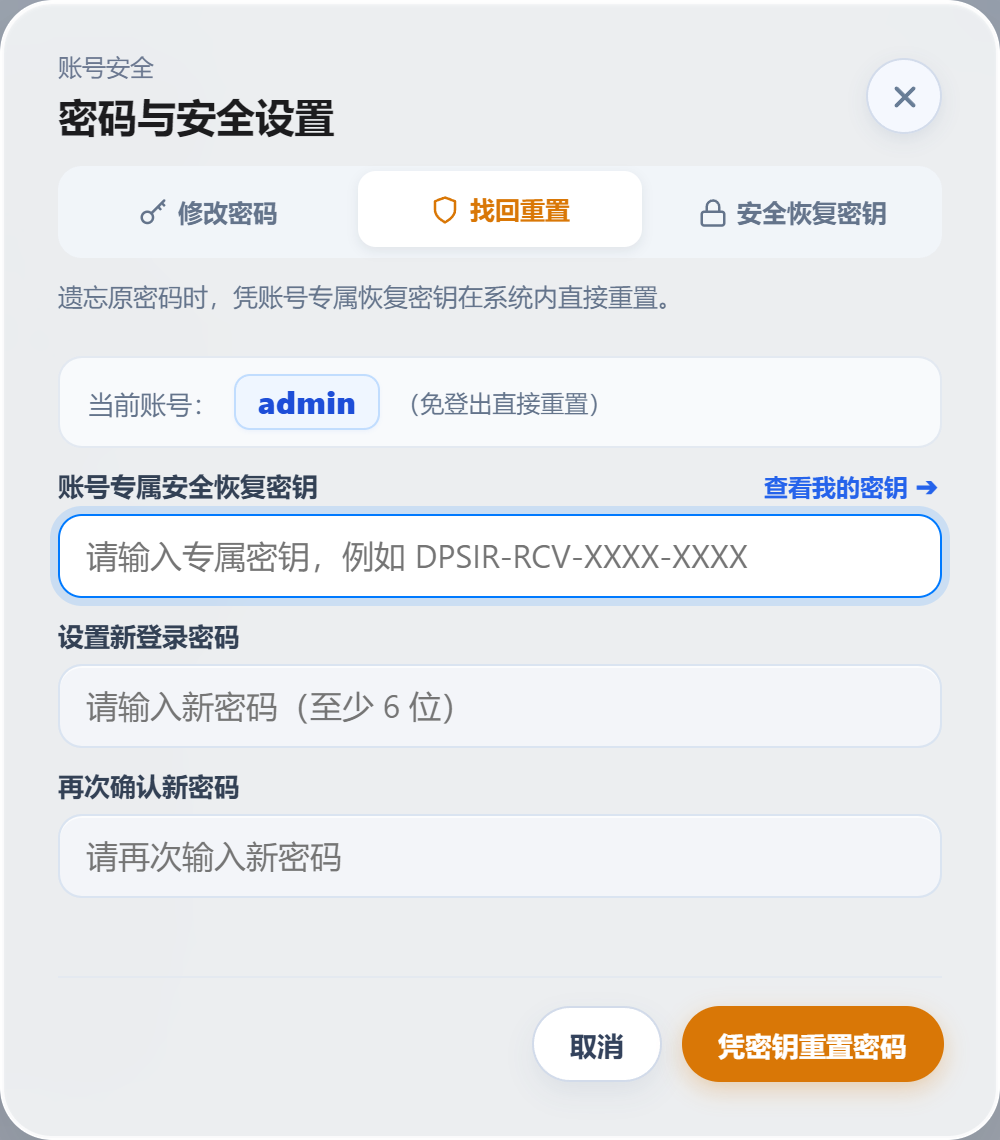
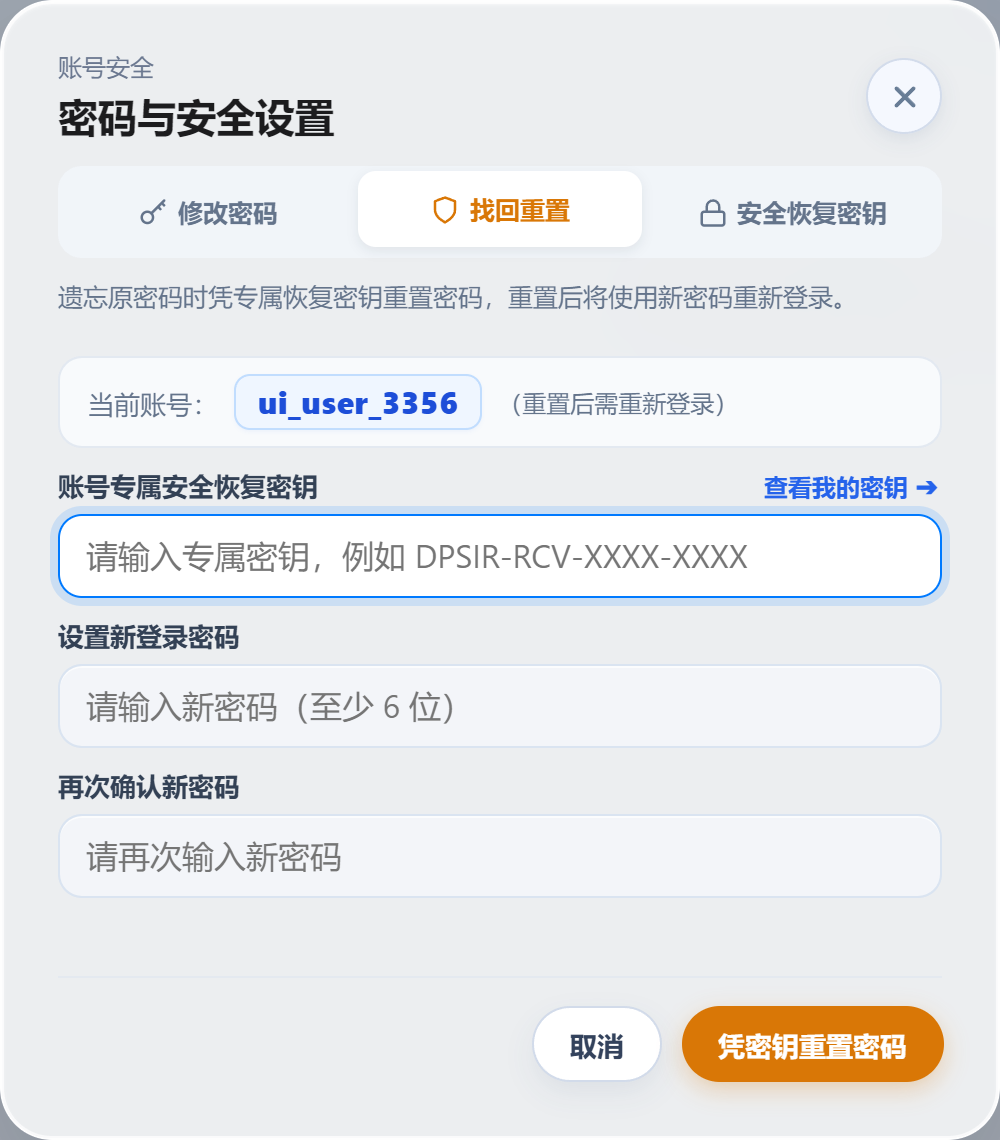
feat(auth): 优化修改与重置密码后的安全重登流程与引导交互

Changed region(s): [[0.217, 0.2456, 0.837, 0.2763], [0.248, 0.3377, 0.713, 0.3684]]

diff --git a/public/app.js b/public/app.js
@@ -3962,6 +3962,20 @@ async function showConfirmDialog(title, description) {
   return result !== null;
 }
 
+async function showSuccessAlert(title, description, confirmText = "前往重新登录") {
+  const result = await openDialog({
+    eyebrow: "安全提示",
+    title,
+    description,
+    confirmText,
+    hideCancel: true,
+    validate() {
+      return "";
+    },
+  });
+  return result !== null;
+}
+
 function fillFolderPasswordDialog(config) {
   state.folderPasswordDialog = config;
   folderPasswordError.textContent = "";
@@ -4051,6 +4065,8 @@ function closeDialogModal() {
   closeFolderDropdown(dialogSelect);
   confirmDialogBtn.classList.remove("danger");
   confirmDialogBtn.textContent = "确定";
+  cancelDialogBtn?.classList.remove("hidden");
+  closeDialogModalBtn?.classList.remove("hidden");
   dialogModal.classList.add("hidden");
   dialogModal.setAttribute("aria-hidden", "true");
   dialogError.textContent = "";
@@ -4069,6 +4085,13 @@ function openDialog(config) {
     confirmDialogBtn.classList.remove("danger");
   }
   dialogError.textContent = "";
+  if (config.hideCancel) {
+    cancelDialogBtn?.classList.add("hidden");
+    closeDialogModalBtn?.classList.add("hidden");
+  } else {
+    cancelDialogBtn?.classList.remove("hidden");
+    closeDialogModalBtn?.classList.remove("hidden");
+  }
 
   dialogInputField.classList.toggle("hidden", !config.input);
   if (config.input) {
@@ -7859,7 +7882,8 @@ async function submitPasswordReset() {
     setAuthMode("login");
     username.value = targetUsername;
     password.value = "";
-    loginError.textContent = "密码已重置，请用新密码登录。";
+    showLoginNotice("密码已成功重置，请使用新密码登录", true);
+    window.setTimeout(() => password?.focus(), 80);
   } catch (error) {
     const msg = error.message || "";
     if (msg.includes("恢复密钥") || msg.includes("错误") || msg.includes("不正确") || msg.includes("失效")) {
@@ -7867,6 +7891,18 @@ async function submitPasswordReset() {
     } else {
       passwordResetError.textContent = msg;
     }
+  }
+}
+
+function showLoginNotice(msg, isSuccess = true) {
+  if (!loginError) return;
+  loginError.textContent = msg;
+  if (isSuccess) {
+    loginError.style.color = "#16a34a";
+    loginError.style.fontWeight = "600";
+  } else {
+    loginError.style.color = "";
+    loginError.style.fontWeight = "";
   }
 }
 
@@ -7925,6 +7961,8 @@ async function handleLoginSubmit(event) {
   const originalBtnText = loginSubmitBtn ? loginSubmitBtn.textContent : "";
   isSubmittingAuth = true;
   loginError.textContent = "";
+  loginError.style.color = "";
+  loginError.style.fontWeight = "";
 
   if (loginSubmitBtn) {
     loginSubmitBtn.disabled = true;
@@ -8162,12 +8200,19 @@ async function submitChangePassword() {
   }
 
   try {
+    const targetUsername = state.currentUser?.username || "";
     await api("/api/user/change-password", {
       method: "POST",
       body: JSON.stringify({ oldPassword, newPassword }),
     });
     closeUserSecurityModal();
-    setStatus("密码修改成功！下次登录请使用新密码。");
+    setSessionToken("");
+    await showSuccessAlert(
+      "密码修改成功",
+      "您的登录密码已成功更新！为保障账号安全，系统已注销所有现有登录会话，请使用新密码重新登录。",
+      "前往重新登录"
+    );
+    clearUserSessionAndNavigateToLogin(targetUsername, "密码修改成功，请使用新密码登录");
   } catch (err) {
     if (secChangeError) secChangeError.textContent = err.message;
   } finally {
@@ -8211,22 +8256,29 @@ async function submitRecoverPasswordInApp() {
   }
 
   try {
+    const targetUsername = state.currentUser?.username || "";
     await api("/api/password-reset", {
       method: "POST",
       body: JSON.stringify({
-        username: state.currentUser?.username || "",
+        username: targetUsername,
         recoveryKey,
         newPassword,
       }),
     });
     closeUserSecurityModal();
-    setStatus("密码已凭安全密钥成功重置！下次登录请使用新密码。");
+    setSessionToken("");
+    await showSuccessAlert(
+      "密码重置成功",
+      "您已凭专属安全恢复密钥成功重置登录密码！为保障账号安全，系统已注销所有现有登录会话，请使用新密码重新登录。",
+      "前往重新登录"
+    );
+    clearUserSessionAndNavigateToLogin(targetUsername, "密码重置成功，请使用新密码登录");
   } catch (err) {
     if (secRecoverError) secRecoverError.textContent = err.message;
   } finally {
     if (confirmSecRecoverBtn) {
       confirmSecRecoverBtn.disabled = false;
-      confirmSecRecoverBtn.textContent = "重置并更新密码";
+      confirmSecRecoverBtn.textContent = "凭密钥重置密码";
     }
   }
 }
@@ -8486,10 +8538,7 @@ downloadNewAccountRecoveryKeyBtn?.addEventListener("click", () => {
 });
 confirmRegisterSuccessBtn?.addEventListener("click", closeRegisterSuccessModal);
 
-$("#logoutBtn").addEventListener("click", async () => {
-  const ok = await showConfirmDialog("退出登录", "确认退出当前网盘账号吗？");
-  if (!ok) return;
-  await api("/api/logout", { method: "POST", body: "{}" });
+function clearUserSessionAndNavigateToLogin(prefilledUsername = "", successNotice = "") {
   setSessionToken("");
   state.currentUser = null;
   state.avatarVersion = null;
@@ -8545,6 +8594,23 @@ $("#logoutBtn").addEventListener("click", async () => {
   driveView.classList.add("hidden");
   loginView.classList.remove("hidden");
   setAuthMode("login");
+  if (prefilledUsername && username) {
+    username.value = prefilledUsername;
+  }
+  if (password) {
+    password.value = "";
+    window.setTimeout(() => password.focus(), 80);
+  }
+  if (successNotice) {
+    showLoginNotice(successNotice, true);
+  }
+}
+
+$("#logoutBtn").addEventListener("click", async () => {
+  const ok = await showConfirmDialog("退出登录", "确认退出当前网盘账号吗？");
+  if (!ok) return;
+  await api("/api/logout", { method: "POST", body: "{}" }).catch(() => {});
+  clearUserSessionAndNavigateToLogin();
 });
 
 backBtn.addEventListener("click", () => {

diff --git a/public/index.html b/public/index.html
@@ -316,7 +316,7 @@
 
           <!-- Tab 1 内容：修改密码 -->
           <div id="secChangeView" class="sec-tab-view">
-            <p class="sec-tab-tip">记得当前登录原密码时，直接自主修改新密码。</p>
+            <p class="sec-tab-tip">记得当前登录原密码时自主修改密码，修改后将退出并使用新密码重新登录。</p>
             <div class="field">
               <div class="field-label-row">
                 <label for="secOldPasswordInput">当前原密码</label>
@@ -341,11 +341,11 @@
 
           <!-- Tab 2 内容：忘记原密码，凭专属恢复密钥重置 -->
           <div id="secRecoverView" class="sec-tab-view hidden">
-            <p class="sec-tab-tip">遗忘原密码时，凭账号专属恢复密钥在系统内直接重置。</p>
+            <p class="sec-tab-tip">遗忘原密码时凭专属恢复密钥重置密码，重置后将使用新密码重新登录。</p>
             <div class="sec-account-badge-row">
               <span class="sec-account-badge-label">当前账号：</span>
               <strong id="secCurrentUsernameText" class="sec-account-badge-val">admin</strong>
-              <span class="sec-account-badge-tip">（免登出直接重置）</span>
+              <span class="sec-account-badge-tip">（重置后需重新登录）</span>
             </div>
             <div class="field">
               <div class="field-label-row">

diff --git a/server.js b/server.js
@@ -4322,7 +4322,9 @@ app.post("/api/password-reset", createRateLimitMiddleware({
     targetUser.tokenVersion = (Number(targetUser.tokenVersion) || 0) + 1;
     targetUser.updatedAt = new Date().toISOString();
     await saveAccountsStore();
-    res.json({ ok: true, user: publicUser(targetUser) });
+    clearSessionCookie(res);
+    clearUnlockedFoldersCookie(res);
+    res.json({ ok: true, message: "密码重置成功，请使用新密码重新登录", user: publicUser(targetUser) });
   } catch (error) {
     next(error);
   }
@@ -4355,9 +4357,9 @@ app.post("/api/user/change-password", requireAuth, createRateLimitMiddleware({
     req.user.tokenVersion = (Number(req.user.tokenVersion) || 0) + 1;
     req.user.updatedAt = new Date().toISOString();
     await saveAccountsStore();
-    const token = createSessionToken(req.user);
-    setSessionCookie(res, token);
-    res.json({ ok: true, message: "密码修改成功", token });
+    clearSessionCookie(res);
+    clearUnlockedFoldersCookie(res);
+    res.json({ ok: true, message: "密码修改成功，请使用新密码重新登录" });
   } catch (error) {
     next(error);
   }
